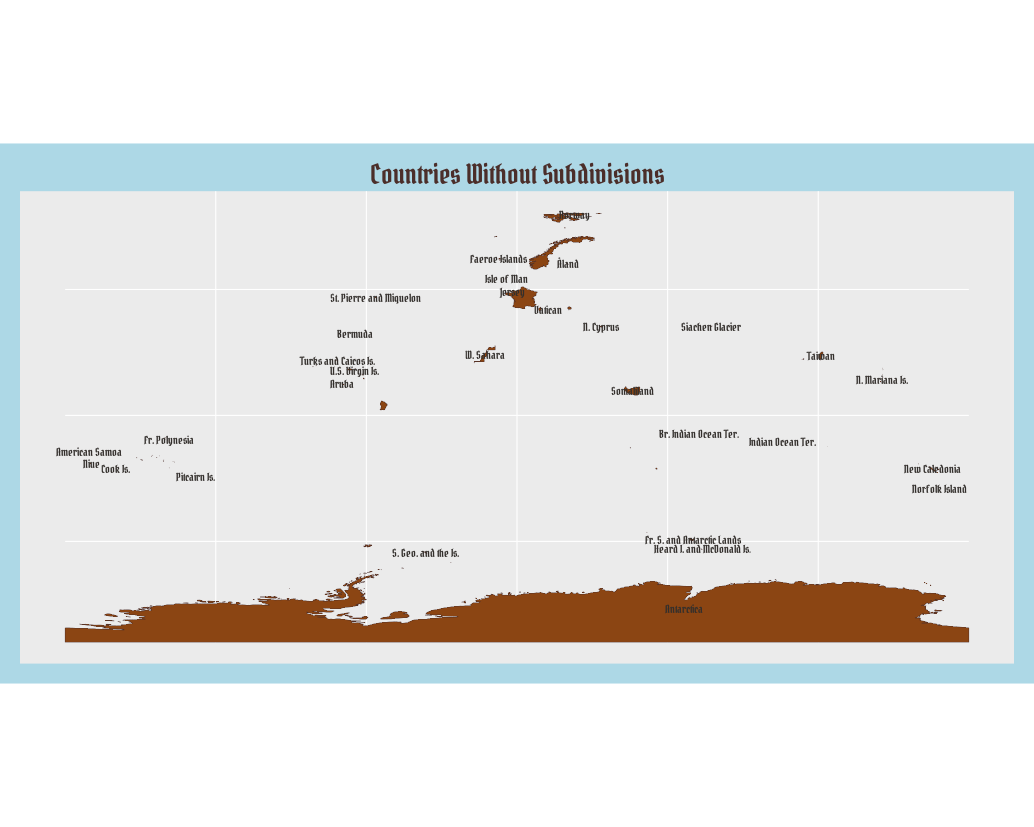
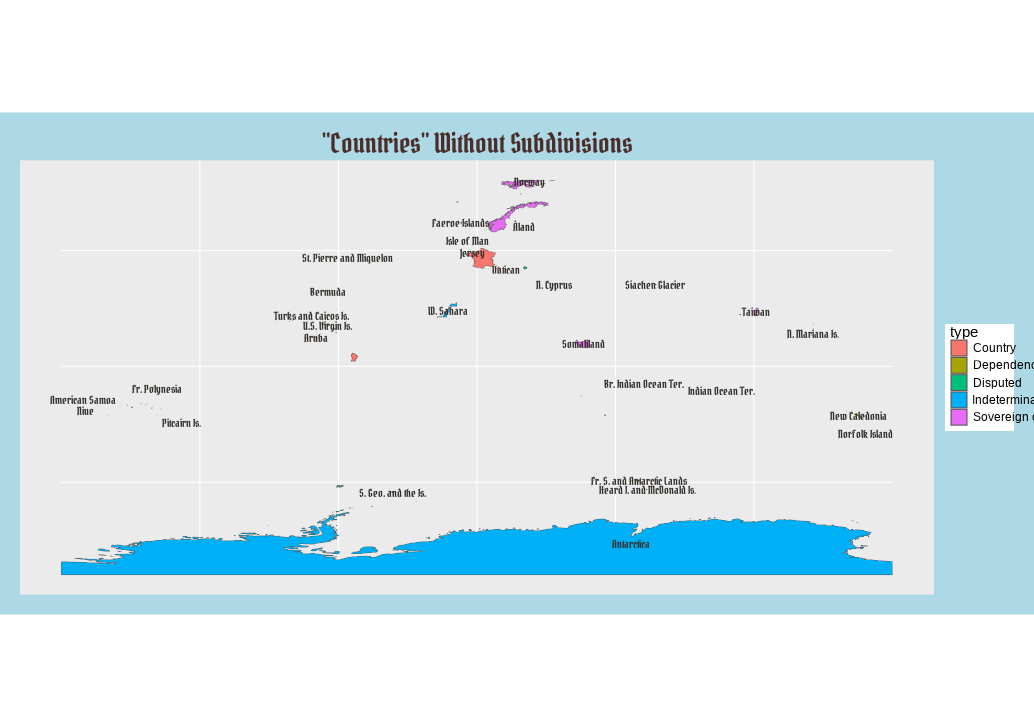
tidy tuesday 11-11

diff --git a/public/blog/tt_11-11-24/index.html b/public/blog/tt_11-11-24/index.html
@@ -45,10 +45,10 @@
     
   
   <meta itemprop="name" content="Tidy Tuesday ISO Codes">
-  <meta itemprop="description" content="library(tidyverse) library(ISOcodes) library(janitor) library(rnaturalearth) library(showtext) font_add_google(&#34;Pirata One&#34;, &#34;pirata&#34;) showtext_auto() countries &lt;- ISOcodes::ISO_3166_1 |&gt; tibble::as_tibble() |&gt; janitor::clean_names() country_subdivisions &lt;- ISOcodes::ISO_3166_2 |&gt; tibble::as_tibble() |&gt; janitor::clean_names() |&gt; dplyr::mutate( alpha_2 = stringr::str_extract(code, &#34;^[^-]&#43;(?=-)&#34;) ) # Load world map data world_data &lt;- ne_countries(scale = &#34;medium&#34;, returnclass = &#34;sf&#34;) # Join world_data with countries to get names for labeling no_sub_countries_map &lt;- world_data |&gt; left_join(countries, by = c(&#34;iso_a2&#34; = &#34;alpha_2&#34;)) |&gt; filter(!is.na(brk_name), !iso_a2 %in% country_subdivisions$alpha_2) # Plot the map ggplot(no_sub_countries_map) &#43; geom_sf(fill = &#34;#8b4513&#34;, color = &#34;#4b2e2a&#34;, size = 0.4) &#43; geom_sf_text(aes(label = brk_name), size = 3, color = &#34;#332f2c&#34;, check_overlap = TRUE, fontface = &#34;italic&#34;, family = &#34;pirata&#34;) &#43; theme( plot.background = element_rect(fill = &#34;#add8e6&#34;, color = NA), plot.title = element_text(size = 20, face = &#34;bold&#34;, family = &#34;pirata&#34;, hjust = 0.5, color = &#34;#4b2e2a&#34;), plot.margin = margin(20, 20, 20, 20) ) &#43; labs(title = &#34;Countries Without Subdivisions&#34;, x = NULL, y = NULL)">
+  <meta itemprop="description" content="library(tidyverse) library(ISOcodes) library(janitor) library(rnaturalearth) library(showtext) font_add_google(&#34;Pirata One&#34;, &#34;pirata&#34;) showtext_auto() countries &lt;- ISO_3166_1 |&gt; as_tibble() |&gt; clean_names() country_subdivisions &lt;- ISO_3166_2 |&gt; as_tibble() |&gt; clean_names() |&gt; mutate( alpha_2 = stringr::str_extract(code, &#34;^[^-]&#43;(?=-)&#34;) ) world_data &lt;- ne_countries(scale = &#34;medium&#34;, returnclass = &#34;sf&#34;) no_sub_countries_map &lt;- world_data |&gt; left_join(countries, by = c(&#34;iso_a2&#34; = &#34;alpha_2&#34;)) |&gt; filter(!is.na(brk_name), !iso_a2 %in% country_subdivisions$alpha_2) ggplot(no_sub_countries_map) &#43; geom_sf(aes(fill = type)) &#43; geom_sf_text(aes(label = brk_name), size = 3, color = &#34;#332f2c&#34;, check_overlap = TRUE, fontface = &#34;italic&#34;, family = &#34;pirata&#34;) &#43; theme( plot.background = element_rect(fill = &#34;#add8e6&#34;, color = NA), plot.title = element_text(size = 20, face = &#34;bold&#34;, family = &#34;pirata&#34;, hjust = 0.5, color = &#34;#4b2e2a&#34;), plot.margin = margin(20, 20, 20, 20) ) &#43; labs(title = &#39;&#34;Countries&#34; Without Subdivisions&#39;, x = NULL, y = NULL)">
   <meta itemprop="datePublished" content="2024-11-11T00:00:00+00:00">
   <meta itemprop="dateModified" content="2024-11-11T00:00:00+00:00">
-  <meta itemprop="wordCount" content="148">
+  <meta itemprop="wordCount" content="123">
   <meta itemprop="image" content="http://localhost:4321/blog/tt_11-11-24/featured.png">
   <meta itemprop="keywords" content="Maps,R,Tidy Tuesday">
   
@@ -111,37 +111,34 @@
 </span></span><span style="display:flex;"><span><span style="color:#900;font-weight:bold">font_add_google</span>(<span style="color:#d14">&#34;Pirata One&#34;</span>, <span style="color:#d14">&#34;pirata&#34;</span>)
 </span></span><span style="display:flex;"><span><span style="color:#900;font-weight:bold">showtext_auto</span>()
 </span></span><span style="display:flex;"><span>
-</span></span><span style="display:flex;"><span>countries <span style="color:#000;font-weight:bold">&lt;-</span> ISOcodes<span style="color:#000;font-weight:bold">::</span>ISO_3166_1 <span style="color:#000;font-weight:bold">|&gt;</span> 
-</span></span><span style="display:flex;"><span>  tibble<span style="color:#000;font-weight:bold">::</span><span style="color:#900;font-weight:bold">as_tibble</span>() <span style="color:#000;font-weight:bold">|&gt;</span> 
-</span></span><span style="display:flex;"><span>  janitor<span style="color:#000;font-weight:bold">::</span><span style="color:#900;font-weight:bold">clean_names</span>()
+</span></span><span style="display:flex;"><span>countries <span style="color:#000;font-weight:bold">&lt;-</span> ISO_3166_1 <span style="color:#000;font-weight:bold">|&gt;</span> 
+</span></span><span style="display:flex;"><span>  <span style="color:#900;font-weight:bold">as_tibble</span>() <span style="color:#000;font-weight:bold">|&gt;</span> 
+</span></span><span style="display:flex;"><span>  <span style="color:#900;font-weight:bold">clean_names</span>()
 </span></span><span style="display:flex;"><span>
 </span></span><span style="display:flex;"><span>country_subdivisions <span style="color:#000;font-weight:bold">&lt;-</span> 
-</span></span><span style="display:flex;"><span>  ISOcodes<span style="color:#000;font-weight:bold">::</span>ISO_3166_2 <span style="color:#000;font-weight:bold">|&gt;</span> 
-</span></span><span style="display:flex;"><span>  tibble<span style="color:#000;font-weight:bold">::</span><span style="color:#900;font-weight:bold">as_tibble</span>() <span style="color:#000;font-weight:bold">|&gt;</span> 
-</span></span><span style="display:flex;"><span>  janitor<span style="color:#000;font-weight:bold">::</span><span style="color:#900;font-weight:bold">clean_names</span>() <span style="color:#000;font-weight:bold">|&gt;</span> 
-</span></span><span style="display:flex;"><span>  dplyr<span style="color:#000;font-weight:bold">::</span><span style="color:#900;font-weight:bold">mutate</span>(
+</span></span><span style="display:flex;"><span>  ISO_3166_2 <span style="color:#000;font-weight:bold">|&gt;</span> 
+</span></span><span style="display:flex;"><span>  <span style="color:#900;font-weight:bold">as_tibble</span>() <span style="color:#000;font-weight:bold">|&gt;</span> 
+</span></span><span style="display:flex;"><span>  <span style="color:#900;font-weight:bold">clean_names</span>() <span style="color:#000;font-weight:bold">|&gt;</span> 
+</span></span><span style="display:flex;"><span>  <span style="color:#900;font-weight:bold">mutate</span>(
 </span></span><span style="display:flex;"><span>    alpha_2 <span style="color:#000;font-weight:bold">=</span> stringr<span style="color:#000;font-weight:bold">::</span><span style="color:#900;font-weight:bold">str_extract</span>(code, <span style="color:#d14">&#34;^[^-]+(?=-)&#34;</span>)
 </span></span><span style="display:flex;"><span>  )
 </span></span><span style="display:flex;"><span>
-</span></span><span style="display:flex;"><span><span style="color:#998;font-style:italic"># Load world map data</span>
 </span></span><span style="display:flex;"><span>world_data <span style="color:#000;font-weight:bold">&lt;-</span> <span style="color:#900;font-weight:bold">ne_countries</span>(scale <span style="color:#000;font-weight:bold">=</span> <span style="color:#d14">&#34;medium&#34;</span>, returnclass <span style="color:#000;font-weight:bold">=</span> <span style="color:#d14">&#34;sf&#34;</span>)
 </span></span><span style="display:flex;"><span>
-</span></span><span style="display:flex;"><span><span style="color:#998;font-style:italic"># Join world_data with countries to get names for labeling</span>
 </span></span><span style="display:flex;"><span>no_sub_countries_map <span style="color:#000;font-weight:bold">&lt;-</span> world_data <span style="color:#000;font-weight:bold">|&gt;</span>
 </span></span><span style="display:flex;"><span>  <span style="color:#900;font-weight:bold">left_join</span>(countries, by <span style="color:#000;font-weight:bold">=</span> <span style="color:#900;font-weight:bold">c</span>(<span style="color:#d14">&#34;iso_a2&#34;</span> <span style="color:#000;font-weight:bold">=</span> <span style="color:#d14">&#34;alpha_2&#34;</span>)) <span style="color:#000;font-weight:bold">|&gt;</span>
 </span></span><span style="display:flex;"><span>  <span style="color:#900;font-weight:bold">filter</span>(<span style="color:#000;font-weight:bold">!</span><span style="color:#900;font-weight:bold">is.na</span>(brk_name),
 </span></span><span style="display:flex;"><span>         <span style="color:#000;font-weight:bold">!</span>iso_a2 <span style="color:#000;font-weight:bold">%in%</span> country_subdivisions<span style="color:#000;font-weight:bold">$</span>alpha_2)  
 </span></span><span style="display:flex;"><span>
-</span></span><span style="display:flex;"><span><span style="color:#998;font-style:italic"># Plot the map</span>
 </span></span><span style="display:flex;"><span><span style="color:#900;font-weight:bold">ggplot</span>(no_sub_countries_map) <span style="color:#000;font-weight:bold">+</span>
-</span></span><span style="display:flex;"><span>  <span style="color:#900;font-weight:bold">geom_sf</span>(fill <span style="color:#000;font-weight:bold">=</span> <span style="color:#d14">&#34;#8b4513&#34;</span>, color <span style="color:#000;font-weight:bold">=</span> <span style="color:#d14">&#34;#4b2e2a&#34;</span>, size <span style="color:#000;font-weight:bold">=</span> <span style="color:#099">0.4</span>) <span style="color:#000;font-weight:bold">+</span>          
+</span></span><span style="display:flex;"><span>  <span style="color:#900;font-weight:bold">geom_sf</span>(<span style="color:#900;font-weight:bold">aes</span>(fill <span style="color:#000;font-weight:bold">=</span> type)) <span style="color:#000;font-weight:bold">+</span>          
 </span></span><span style="display:flex;"><span>  <span style="color:#900;font-weight:bold">geom_sf_text</span>(<span style="color:#900;font-weight:bold">aes</span>(label <span style="color:#000;font-weight:bold">=</span> brk_name), size <span style="color:#000;font-weight:bold">=</span> <span style="color:#099">3</span>, color <span style="color:#000;font-weight:bold">=</span> <span style="color:#d14">&#34;#332f2c&#34;</span>, check_overlap <span style="color:#000;font-weight:bold">=</span> <span style="color:#000;font-weight:bold">TRUE</span>, fontface <span style="color:#000;font-weight:bold">=</span> <span style="color:#d14">&#34;italic&#34;</span>, family <span style="color:#000;font-weight:bold">=</span> <span style="color:#d14">&#34;pirata&#34;</span>) <span style="color:#000;font-weight:bold">+</span> 
 </span></span><span style="display:flex;"><span>  <span style="color:#900;font-weight:bold">theme</span>(
 </span></span><span style="display:flex;"><span>    plot.background <span style="color:#000;font-weight:bold">=</span> <span style="color:#900;font-weight:bold">element_rect</span>(fill <span style="color:#000;font-weight:bold">=</span> <span style="color:#d14">&#34;#add8e6&#34;</span>, color <span style="color:#000;font-weight:bold">=</span> <span style="color:#000;font-weight:bold">NA</span>),    
 </span></span><span style="display:flex;"><span>    plot.title <span style="color:#000;font-weight:bold">=</span> <span style="color:#900;font-weight:bold">element_text</span>(size <span style="color:#000;font-weight:bold">=</span> <span style="color:#099">20</span>, face <span style="color:#000;font-weight:bold">=</span> <span style="color:#d14">&#34;bold&#34;</span>, family <span style="color:#000;font-weight:bold">=</span> <span style="color:#d14">&#34;pirata&#34;</span>, hjust <span style="color:#000;font-weight:bold">=</span> <span style="color:#099">0.5</span>, color <span style="color:#000;font-weight:bold">=</span> <span style="color:#d14">&#34;#4b2e2a&#34;</span>),
 </span></span><span style="display:flex;"><span>    plot.margin <span style="color:#000;font-weight:bold">=</span> <span style="color:#900;font-weight:bold">margin</span>(<span style="color:#099">20</span>, <span style="color:#099">20</span>, <span style="color:#099">20</span>, <span style="color:#099">20</span>)                             
 </span></span><span style="display:flex;"><span>  ) <span style="color:#000;font-weight:bold">+</span>
-</span></span><span style="display:flex;"><span>  <span style="color:#900;font-weight:bold">labs</span>(title <span style="color:#000;font-weight:bold">=</span> <span style="color:#d14">&#34;Countries Without Subdivisions&#34;</span>, x <span style="color:#000;font-weight:bold">=</span> <span style="color:#000;font-weight:bold">NULL</span>, y <span style="color:#000;font-weight:bold">=</span> <span style="color:#000;font-weight:bold">NULL</span>)
+</span></span><span style="display:flex;"><span>  <span style="color:#900;font-weight:bold">labs</span>(title <span style="color:#000;font-weight:bold">=</span> <span style="color:#d14">&#39;&#34;Countries&#34; Without Subdivisions&#39;</span>, x <span style="color:#000;font-weight:bold">=</span> <span style="color:#000;font-weight:bold">NULL</span>, y <span style="color:#000;font-weight:bold">=</span> <span style="color:#000;font-weight:bold">NULL</span>)
 </span></span></code></pre></div><img src="/blog/tt_11-11-24/index_files/figure-html/unnamed-chunk-1-1.png" width="672" />
 
         
@@ -152,7 +149,7 @@
   </dl>
   <dl class="f6 lh-copy">
     <dt class="fw7">Length:</dt>
-    <dd class="fw5 ml0">1 minute read, 148 words</dd>
+    <dd class="fw5 ml0">1 minute read, 123 words</dd>
   </dl>
   
   

diff --git a/content/blog/tt_11-11-24/index.md b/content/blog/tt_11-11-24/index.md
@@ -22,37 +22,34 @@ library(showtext)
 font_add_google("Pirata One", "pirata")
 showtext_auto()
 
-countries <- ISOcodes::ISO_3166_1 |> 
-  tibble::as_tibble() |> 
-  janitor::clean_names()
+countries <- ISO_3166_1 |> 
+  as_tibble() |> 
+  clean_names()
 
 country_subdivisions <- 
-  ISOcodes::ISO_3166_2 |> 
-  tibble::as_tibble() |> 
-  janitor::clean_names() |> 
-  dplyr::mutate(
+  ISO_3166_2 |> 
+  as_tibble() |> 
+  clean_names() |> 
+  mutate(
     alpha_2 = stringr::str_extract(code, "^[^-]+(?=-)")
   )
 
-# Load world map data
 world_data <- ne_countries(scale = "medium", returnclass = "sf")
 
-# Join world_data with countries to get names for labeling
 no_sub_countries_map <- world_data |>
   left_join(countries, by = c("iso_a2" = "alpha_2")) |>
   filter(!is.na(brk_name),
          !iso_a2 %in% country_subdivisions$alpha_2)  
 
-# Plot the map
 ggplot(no_sub_countries_map) +
-  geom_sf(fill = "#8b4513", color = "#4b2e2a", size = 0.4) +          
+  geom_sf(aes(fill = type)) +          
   geom_sf_text(aes(label = brk_name), size = 3, color = "#332f2c", check_overlap = TRUE, fontface = "italic", family = "pirata") + 
   theme(
     plot.background = element_rect(fill = "#add8e6", color = NA),    
     plot.title = element_text(size = 20, face = "bold", family = "pirata", hjust = 0.5, color = "#4b2e2a"),
     plot.margin = margin(20, 20, 20, 20)                             
   ) +
-  labs(title = "Countries Without Subdivisions", x = NULL, y = NULL)
+  labs(title = '"Countries" Without Subdivisions', x = NULL, y = NULL)
 ```
 
 <img src="{{< blogdown/postref >}}index_files/figure-html/unnamed-chunk-1-1.png" width="672" />
